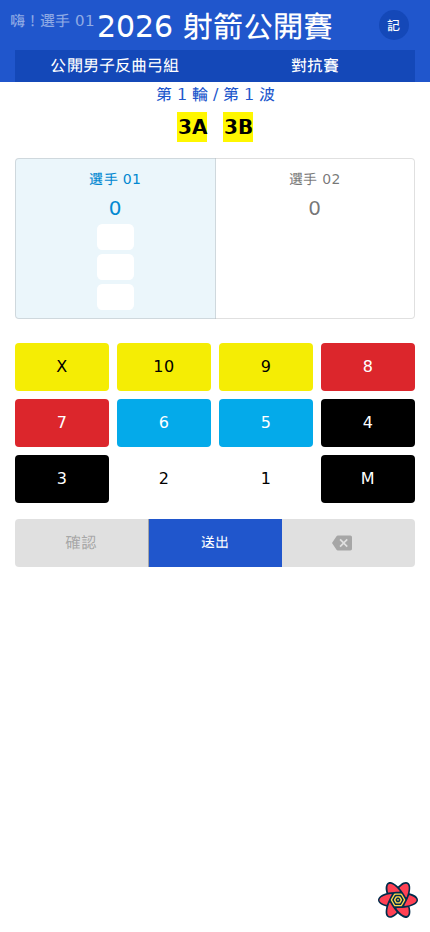
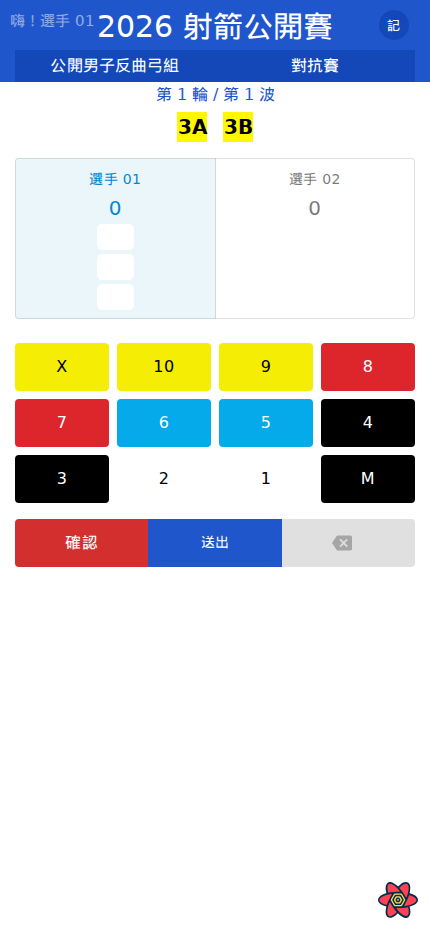
docs(manual): add role guides and mobile navigation
- Add player, judge, and administrator guides with screenshots.
- Explain competition entry and mobile page switching.
- Extend the dedicated screenshot scenarios and document the command.

Changed region(s): [[0.0302, 0.529, 0.3628, 0.6223]]

diff --git a/frontend/tests/browser/manual/qualificationScreenshots.spec.ts b/frontend/tests/browser/manual/qualificationScreenshots.spec.ts
@@ -22,7 +22,7 @@ const waves = [
   [9, 9, 9, 9, 8, 8],
 ];
 
-async function registerScoreSummaryRoutes(page: Page) {
+async function registerScoreSummaryRoutes(page: Page, asPlayer = false) {
   const player = {
     id: playerId,
     group_id: groupId,
@@ -103,10 +103,10 @@ async function registerScoreSummaryRoutes(page: Page) {
   };
   await page.route("**/user/me", (route) => route.fulfill({ json: { id: userId } }));
   await page.route(`**/user/${userId}`, (route) => route.fulfill({
-    json: { id: userId, username: "score-admin", real_name: "裁判" },
+    json: { id: userId, username: "score-admin", real_name: asPlayer ? "選手 01" : "裁判" },
   }));
   await page.route(`**/participant/competition/user/${competitionId}/${userId}`, (route) => route.fulfill({
-    json: [{ id: 9740, userID: userId, competitionID: competitionId, role: "Admin", status: "approved" }],
+    json: [{ id: 9740, userID: userId, competitionID: competitionId, role: asPlayer ? "Player" : "Admin", status: "approved" }],
   }));
   await page.route(`**/competition/${competitionId}`, (route) => route.fulfill({ json: competition }));
   await page.route(`**/competition/groups/${competitionId}`, (route) => route.fulfill({ json: competition }));
@@ -130,6 +130,36 @@ async function registerScoreSummaryRoutes(page: Page) {
   }));
   await page.route(`**/player/scores/${playerId}`, (route) => route.fulfill({ json: player }));
 }
+
+test("選手從我的比賽進入賽事並開啟切換選單", async ({ page }) => {
+  await page.setViewportSize({ width: 430, height: 932 });
+  await registerScoreSummaryRoutes(page, true);
+  await page.route(`**/competition/user/${userId}/0/4`, (route) => route.fulfill({
+    json: [{ id: competitionId, title: "2026 射箭公開賽", sub_title: "公開男子反曲弓組" }],
+    headers: { "X-Total-Count": "1" },
+  }));
+  await page.route("**/qualification/lanes/players/9709", (route) => route.fulfill({
+    json: { id: 9709, advancing_num: 0, lanes: [] },
+  }));
+
+  await page.goto("/my_competitions");
+  await expect(page.getByRole("heading", { name: "我的比賽" })).toBeVisible();
+  await expect(page.getByRole("button", { name: "查看記分板" })).toBeVisible();
+  await manualScreenshot(page, "player/my-competitions", { mobile: true });
+
+  await page.getByRole("button", { name: "查看記分板" }).click();
+  await expect(page).toHaveURL(new RegExp(`/competition/${competitionId}/scoreboard/0/qualification$`));
+  await expect(page.locator(".board_switch")).toHaveText("分");
+  await page.getByText("未分組", { exact: true }).click();
+  await page.getByText("公開男子反曲弓組", { exact: true }).last().click();
+  await expect(page).toHaveURL(new RegExp(`/competition/${competitionId}/scoreboard/1/qualification$`));
+  await expect(page.getByText("選手 01", { exact: true })).toBeVisible();
+  await manualScreenshot(page, "player/competition-scoreboard", { mobile: true });
+
+  await page.locator(".board_switch").click();
+  await expect(page.getByRole("menuitem", { name: "紀錄分數" })).toBeVisible();
+  await manualScreenshot(page, "player/competition-menu", { mobile: true });
+});
 
 async function selectPlayerForJudge(page: Page) {
   await page.goto(`/competition/${competitionId}/judge`);

diff --git a/frontend/tests/browser/manual/eliminationScreenshots.spec.ts b/frontend/tests/browser/manual/eliminationScreenshots.spec.ts
@@ -223,6 +223,38 @@ test("選手查看完整對抗樹及比分詳情", async ({ page }) => {
   await manualScreenshot(page, "player/public-elimination-detail", { mobile: true });
 });
 
+test("裁判從我的比賽進入裁判頁", async ({ page }) => {
+  const fixture = buildEliminationFixture("individual", { targets: ["A", "B"] });
+  prepareManualFixture(fixture);
+  fixture.user.real_name = "裁判";
+  fixture.participants[0].role = "Judge";
+  fixture.participants[0].status = "approved";
+  await registerEliminationRoutes(page, fixture);
+  await page.route(`**/competition/user/${fixture.userId}/0/4`, (route) =>
+    route.fulfill({
+      json: [fixture.competition],
+      headers: { "X-Total-Count": "1" },
+    }),
+  );
+  await page.route("**/qualification/lanes/players/*", (route) =>
+    route.fulfill({ json: { lanes: [] } }),
+  );
+  await page.setViewportSize({ width: 430, height: 932 });
+  await page.goto("/my_competitions");
+  await expect(page.getByRole("heading", { name: "2026 射箭公開賽" })).toBeVisible();
+  await manualScreenshot(page, "judge/my-competitions", { mobile: true });
+
+  await page.getByRole("button", { name: /查看記分板/ }).click();
+  const panelButton = page.getByRole("button", { name: "分", exact: true });
+  await expect(panelButton).toBeVisible();
+  await panelButton.click();
+  await expect(page.getByRole("menuitem", { name: "裁判" })).toBeVisible();
+  await manualScreenshot(page, "judge/competition-menu", { mobile: true });
+  await page.getByRole("menuitem", { name: "裁判" }).click();
+  await expect(page).toHaveURL(`/competition/${fixture.competitionId}/judge`);
+  await expect(page.getByRole("heading", { name: "裁判記分" })).toBeVisible();
+});
+
 test("裁判查看對抗賽並編輯已確認分數", async ({ page }) => {
   const fixture = buildEliminationFixture("individual", { targets: ["A", "B"] });
   prepareManualFixture(fixture);

diff --git a/frontend/tests/browser/manual/qualificationScoringScreenshots.spec.ts b/frontend/tests/browser/manual/qualificationScoringScreenshots.spec.ts
@@ -113,7 +113,6 @@ test("選手選擇資格賽波次並填入六支箭", async ({ page }) => {
   await page.locator(".player_button_group button").filter({ hasText: "選手 01" }).click();
   await manualScreenshot(page, "player/qualification-scoring", { mobile: true });
   await expect(saveButton).toBeEnabled();
-  await expect(confirmButton).toBeDisabled();
   await page.getByRole("button", { name: "10", exact: true }).click();
   await saveButton.click();
   await expect(page.getByText("分數已送出")).toBeVisible();

diff --git a/docs/user-manual-player.md b/docs/user-manual-player.md
@@ -1,0 +1,112 @@
+# 選手使用者手冊
+
+系統網址：https://archery.club.nycu.edu.tw/
+
+本手冊介紹登入、申請參賽、資格賽記分、對抗賽記分與查看成績。圖中的選手皆以「選手 01」格式匿名顯示。
+
+小提示：如果遇到任何顯示上的問題，請先嘗試重新整理；如果問題仍然存在，再通知主辦方。
+
+## 登入與申請加入
+
+### 1. 登入或建立帳號
+
+已有帳號者輸入帳號、密碼後按「登入」。首次使用者按「沒有帳號嗎？」開啟註冊頁，填寫帳號、密碼、姓名、電子郵件與組織資料後按「註冊」，再回登入頁登入。
+
+![手機登入畫面](user-manual-images/player/login.png)
+
+![手機登入後首頁](user-manual-images/player/home.png)
+
+![手機註冊表單](user-manual-images/player/register.png)
+
+### 2. 找到比賽並申請選手身分
+
+小提示：如果你現在使用的這個帳號是主辦方提供的，主辦方很可能已經幫你申請加入他們舉辦的賽事了，所以不需要再申請加入賽事。
+
+1. 登入後由「比賽列表」找到目標賽事，先核對賽事名稱，再按該賽事的「申請加入」。
+
+   ![手機比賽列表](user-manual-images/player/competition-list.png)
+
+2. 在「選擇申請角色」視窗按「申請為選手」。送出後會顯示申請結果；這時還不能記分。
+
+   ![手機申請角色視窗](user-manual-images/player/competition-application.png)
+
+3. 等管理員核准申請，並將你編入組別與資格賽靶道。若已核准但記分頁找不到自己的姓名，請請管理員檢查組別、靶道與賽程啟用狀態。
+
+## 進入賽事與切換畫面
+
+### 1. 從列表開啟賽事
+
+登入後，到「我的比賽」找到已參與的賽事；也可從「比賽列表」尋找。核對賽事名稱，按「查看記分板」進入賽事頁。
+
+![手機我的比賽與賽事入口](user-manual-images/player/my-competitions.png)
+
+### 2. 確認賽事頁
+
+進入後會先看到該賽事的「分數榜」。核對畫面上的賽事名稱，再選擇要查看的組別與賽別。
+
+![手機賽事分數榜](user-manual-images/player/competition-scoreboard.png)
+
+### 3. 切換到記分頁或返回分數榜
+
+按右上角圓形「分」按鈕打開選單，選「紀錄分數」進入記分頁；要返回公開成績，按右上角圓形「記」按鈕，再選「分數榜」。選單中的「首頁」可返回網站首頁。只有選手申請已獲核准，選單才會顯示「紀錄分數」。
+
+![手機賽事頁切換選單](user-manual-images/player/competition-menu.png)
+
+## 資格賽記分
+
+### 1. 開啟記分頁並核對靶道
+
+由賽事頁切到「紀錄分數」，選擇要紀錄的選手。開始輸入前，確認賽事、組別、靶道及目前局、波都正確。
+同靶道的選手可以為其他人填寫分數，一個靶道請由一位選手填寫就好。
+
+![手機資格賽記分頁](user-manual-images/player/qualification-scoring.png)
+
+### 2. 逐箭輸入本波分數
+
+按分數鍵逐箭登錄，依畫面顯示的箭格數填完本波。若選錯分數，先使用畫面上的清除或刪除操作修正，再送出。
+
+![手機已填入資格賽箭值](user-manual-images/player/qualification-scoring-filled.png)
+
+### 3. 送出並確認
+
+每次有選手的分數填滿時，分數都會自動送出該名選手的分數，系統也會跳出提示，也可以手動送出分數。 送出後再按「確認」完成該波。已確認波次不能由選手自行修改；發現錯誤時請裁判或管理員更正。
+
+蘋果裝置目前有個已知問題：使用者按下確認後，畫面上的各個按鈕可能會閃爍，但按下確認後，一樣無法調整該名選手的分數。
+
+## 對抗賽記分
+
+### 1. 核對對局
+
+在「紀錄分數」頁確認目前階段、波次、靶道。選擇要紀錄的隊伍。同個對抗中的選手可以為其他人填寫分數，一個對抗請由一位選手填寫就好。
+
+![手機對抗賽記分頁](user-manual-images/player/elimination-scoring.png)
+
+### 2. 輸入並送出本波箭值
+
+按分數鍵逐箭登錄，依畫面顯示的箭格數填完本波。若選錯分數，先使用畫面上的清除或刪除操作修正，再送出。
+
+![手機已填入對抗賽箭值](user-manual-images/player/elimination-scoring-filled.png)
+
+### 3. 確認該波
+
+送出後核對雙方分數，再按「確認」。已確認的波次由裁判或管理員處理更正。
+
+## 查看成績
+
+### 1. 開啟公開記分板
+
+回到比賽列表，在賽事卡按「查看記分板」，選擇組別及賽別。
+
+### 2. 查看資格賽成績
+
+資格賽榜會列出排名與總分。點選選手姓名可查看各局、各波箭值及統計；完整賽事會顯示全部箭值與合計。
+
+![手機公開資格賽成績明細](user-manual-images/player/public-qualification-score.png)
+
+### 3. 查看對抗賽對抗表與單場明細
+
+在手機上可左右滑動對抗表追蹤晉級路徑；隊伍旁黃底數字是靶道。點選隊伍或對局，可查看該場雙方分數、波次資料。
+
+![手機公開對抗賽對抗表](user-manual-images/player/public-elimination-bracket.png)
+
+![手機公開對抗賽比分明細](user-manual-images/player/public-elimination-detail.png)

diff --git a/docs/user-manual-admin.md b/docs/user-manual-admin.md
@@ -1,0 +1,86 @@
+# 管理員使用者手冊
+
+本手冊說明建立賽事、審核申請、配置資格賽、建立對抗賽及推進賽事的操作。建立全新賽事需 Dictator 權限；管理既有賽事需該賽事的 Admin 權限。選手展示名稱統一採「選手 01」格式。
+
+## 建立賽事與準備參賽名單
+
+### 1. 開啟建賽入口
+
+Dictator 登入後開啟「我的比賽」，按「創建新的比賽」。
+
+![桌機我的比賽](user-manual-images/admin/my-competitions.png)
+
+### 2. 填寫賽事資料
+
+填寫比賽名稱、副標題、局數、靶道數量、日期及簡介，檢查主辦者 UID 後按「創建比賽」。建立完成後進入該賽事的管理頁。
+
+![桌機建立賽事表單](user-manual-images/admin/create-competition.png)
+
+### 3. 審核參賽申請
+
+開啟賽事管理的「參加者管理」。勾選待審核的申請列，確認身分是選手或裁判後按「核准」。選手核准後仍須配置組別與靶道；裁判身分不會自動成為選手。
+
+![桌機審核參賽者](user-manual-images/admin/participant-approval.png)
+
+## 設定資格賽
+
+### 1. 建立正式組別
+
+進入「組別管理」按「創建組別」，填組別名稱、距離與弓種。再將已核准的選手由未分組名單指定到正確正式組別，避免未分組選手進入賽程。
+
+### 2. 設定靶道與晉級名額
+
+進入「賽程」的資格賽設定，選擇正式組別，填寫靶道範圍及晉級名額。將選手配置到靶道與靶面，核對名單後按「儲存」。
+
+![桌機資格賽排程設定](user-manual-images/admin/qualification-schedule.png)
+
+### 3. 啟用資格賽並設定選手端階段
+
+在賽程啟用控制開啟「資格賽」。到進度頁的「選手目前畫面」，選擇「資格賽」，讓選手端顯示目前賽別。未啟用的項目不能選取。
+
+### 4. 推進資格賽波次
+
+在「進度」的資格賽頁查看各靶道確認狀態。確認本波應完成的記分都已送出並確認後，按「下一波」；不要在仍有未完成靶道時推進。
+
+![桌機資格賽進度與靶道狀態](user-manual-images/admin/qualification-progress.png)
+
+### 5. 更新資格賽排名
+
+需要重算名次時按「自動更新排名」。若要人工調整，在資格賽進度頁按「手動調整排名」，選正式組別、拖曳選手列旁的把手，再按「儲存排名」。手動排序會被之後的「自動更新排名」覆寫。
+
+![桌機手動調整資格賽排名](user-manual-images/admin/qualification-ranking.png)
+
+## 建立與推進對抗賽
+
+### 1. 建立隊伍並整理排名
+
+個人賽可按「依資格排名建立隊伍」建立一人隊伍。團體賽先選隊員、輸入隊名，再按「創建隊伍」。完成後按「自動更新排名」依資格賽結果排序；必要時手動調整隊伍排名。
+
+### 2. 建立完整對抗樹
+
+進入對應賽別的「賽程」，按「建立完整對抗樹」，輸入固定晉級數並按「建立」。建立樹、安排首輪隊伍是不同操作；新建樹的首輪會保持空白。
+
+![桌機建立完整對抗樹](user-manual-images/admin/create-elimination-bracket.png)
+
+### 3. 安排首輪與靶道
+
+到「進度」的對抗賽頁，選擇組別與賽別，按「依隊伍排名更新第一階段」填入首輪隊伍；需要時按「設定本階段靶道」。更新後檢查每場雙方與靶位，確認同一階段沒有重複隊伍。
+
+### 4. 啟用並切換選手端賽程
+
+在賽程啟用控制開啟對應項目，再於「選手目前畫面」選目前賽別。管理員也可在進度頁選擇要處理的階段與波次。
+
+### 5. 晉級或結算獎牌
+
+對戰比分完成且勝方已確認後，非最後階段按「依結果填入下一階段」。最後階段按「依結果結算獎牌」。重新套用排名可能覆蓋已進行的賽事；若首輪或下游對戰已有結果，系統可能拒絕更新。加射或需裁決的勝方由 Admin 明確指定。
+
+## 批次建立選手帳號
+
+具 Dictator 權限的帳號可用「管理員批次註冊」。
+
+1. 選擇賽事，填帳號前綴及 CSV。
+2. 按「預覽」，逐列檢查帳號、選手代稱與錯誤訊息。
+3. 修改前綴或 CSV 後重新預覽；有錯誤時「確認建立」不可用。
+4. 預覽正確後按「確認建立」，確認建立筆數。
+
+![桌機批次註冊預覽](user-manual-images/admin/bulk-register-preview.png)

diff --git a/docs/user-manual-judge.md b/docs/user-manual-judge.md
@@ -1,0 +1,63 @@
+# 裁判使用者手冊
+
+系統網址：https://archery.club.nycu.edu.tw/
+
+本手冊說明如何在手機上選擇賽事範圍、記錄資格賽及對抗賽分數，並更正已確認的波次。申請裁判身分後，須由該賽事管理員核准。圖中的選手皆以「選手 01」格式匿名顯示。
+
+## 進入裁判頁與選擇對象
+
+### 1. 找到要當裁判的賽事
+
+登入後，在「我的比賽」或「比賽列表」找到目標賽事，核對名稱並按「查看記分板」。裁判申請須經該賽事管理員核准，才能進入裁判頁。
+
+![手機裁判從我的比賽進入賽事](user-manual-images/judge/my-competitions.png)
+
+### 2. 切換到裁判頁
+
+在賽事頁按右上角的圓形「分」按鈕，從選單選「裁判」。進入後，右上角按鈕會顯示「判」；按它可再次切換頁面。
+
+![手機賽事頁選擇裁判畫面](user-manual-images/judge/competition-menu.png)
+
+### 3. 依目前階段找到要處理的對象
+
+賽事在資格賽階段時，裁判頁直接顯示「選手姓名」搜尋欄；選取選手即可查看成績。賽事在對抗賽階段時，先選「組別」及「項目」，再依目前階段與波次點選要處理的 Match。畫面只列出已啟用的對抗賽項目。
+
+![手機裁判 Match 列表](user-manual-images/judge/match-list.png)
+
+## 資格賽記分與更正
+
+### 1. 找到選手並核對波次
+
+在「選手姓名」欄輸入或選取選手。核對組別、靶道、局與波次，並先檢查該波目前的箭分及確認狀態。
+
+![手機裁判資格賽成績表](user-manual-images/judge/qualification-score.png)
+
+### 2. 編輯該波分數
+
+按該波旁的編輯按鈕，在「編輯分數」視窗逐箭輸入正確分數，確認箭格數量與順序後按「送出」。
+
+![手機裁判編輯資格賽分數](user-manual-images/judge/qualification-score-editor.png)
+
+### 3. 核對儲存結果
+
+送出後確認成績表已更新。裁判可更正已確認的波次；更正成功後該波仍維持已確認狀態，避免已完成波次重新開放。
+
+## 對抗賽記分與更正
+
+### 1. 開啟 Match 比分明細
+
+點選 Match 後，先確認階段、目前波次、我方與對手靶位。雙方比分並排顯示，方便逐波比對。
+
+![手機 Match 雙方比分](user-manual-images/judge/match-detail.png)
+
+### 2. 編輯一方該波分數
+
+按要更正一方的該波編輯按鈕，逐箭輸入並按「送出」。雙方分數分開處理；若兩方都需要更正，完成一方後再處理另一方。
+
+![手機已確認波次更正畫面](user-manual-images/judge/edit-confirmed-score.png)
+
+### 3. 核對確認狀態
+
+送出後再次核對雙方分數及確認狀態。更正已確認波次後，確認狀態會保留；若尚未送出且要捨棄草稿，按「取消」。
+
+若找不到組別、賽別或 Match，請管理員檢查對抗賽是否已建立。

diff --git a/docs/testing.md b/docs/testing.md
@@ -142,7 +142,7 @@ node scripts/compare-lifecycle-results.mjs \
 | mock browser | `frontend/playwright-report/browser/`、`frontend/test-results/browser/` |
 | 真 E2E | `test-artifacts/e2e/<run-id>/`：JSON、HTML、trace、截圖、service log |
 
-Playwright 只在失敗時保留 trace 與截圖；lifecycle trace 關閉連續 screenshot filmstrip，但保留失敗頁面證據。先讀 JSON／HTML、trace、服務 log 與 attachment，按模式、UI/API、角色、組別、階段、對戰與波次定位；不可以 retry 或改走另一條路徑掩蓋失敗。
+Playwright 只在失敗時保留 trace 與截圖；lifecycle trace 關閉連續 screenshot filmstrip，但保留失敗頁面證據。 [使用者操作手冊](user-manual.md) 的示意圖由 `frontend/tests/browser/manual/` 專用測試截取；一般 browser 測試不執行這些拍圖情境。在 `frontend/` 目錄執行 `npm run manual:screenshots` 可重製 `docs/user-manual-images/`，使用的都是 mock 資料。先讀 JSON／HTML、trace、服務 log 與 attachment，按模式、UI/API、角色、組別、階段、對戰與波次定位；不可以 retry 或改走另一條路徑掩蓋失敗。
 
 接受 lifecycle 的故障注入時，僅在可丟棄 source 副本做單一 UI 範圍 mutation，預期對應 A→B 切換／scope assertion 失敗；移除副本後比對原專案未變，再在全新隔離環境跑正向流程。此法驗證 assertion 能捕捉缺陷，不將故障 run 當通過結果。
 

diff --git a/docs/user-manual.md b/docs/user-manual.md
@@ -1,0 +1,7 @@
+# 使用者操作手冊
+
+請依角色閱讀對應手冊。選手與裁判圖片使用 430px 手機視圖，管理員圖片使用桌機視圖。畫面由 Playwright 測試的匿名示範資料擷取。
+
+- [選手使用者手冊](user-manual-player.md)
+- [裁判使用者手冊](user-manual-judge.md)
+- [管理員使用者手冊](user-manual-admin.md)

diff --git a/README.md b/README.md
@@ -2,6 +2,8 @@
 
 一個用於射箭比賽紀錄分數的系統。
 
+首次使用可看 [使用者操作手冊](docs/user-manual.md)。
+
 你需要`docker`來運行這個系統。
 
 開發和測試上，前端需要`nodejs`和`npm`、後端需要`go`。
